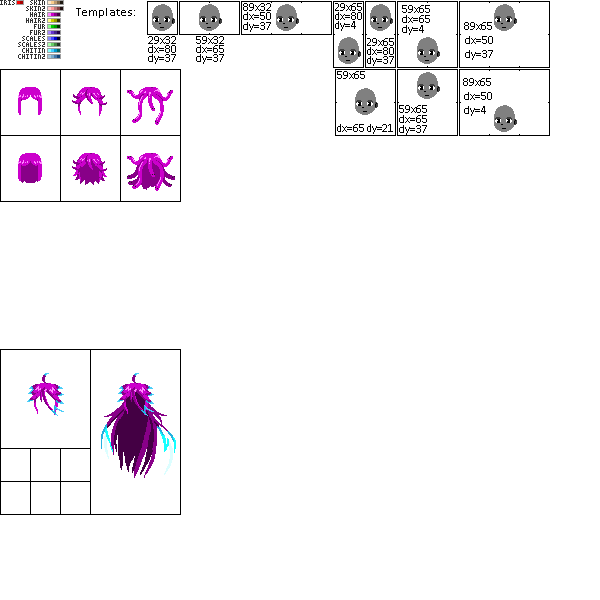
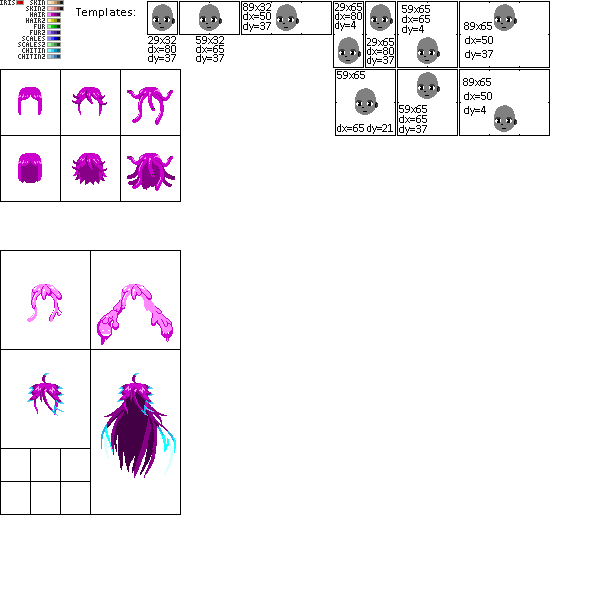
Charview update (goo)

Changed region(s): [[0.15, 0.45, 0.3, 0.57], [0.03, 0.45, 0.12, 0.54]]

diff --git a/devTools/spred/spred.js b/devTools/spred/spred.js
@@ -41,9 +41,13 @@ function colormap(src, map) {
     let darr = new Uint32Array(dst.data.buffer);
     for (let i = 0, n = darr.length; i < n; i++) {
         darr[i] = sarr[i];
+        let sa = (sarr[i] & 0xff000000) >>> 0;
+        let srgb = (sarr[i] | 0xff000000) >>> 0;
+        if (sa === 0 || srgb === 0)
+            continue;
         for (let j = 0, m = map.length; j < m; j++) {
-            if (sarr[i] === map[j][0]) {
-                darr[i] = map[j][1];
+            if (srgb === map[j][0]) {
+                darr[i] = ((map[j][1] & 0x00ffffff) | sa) >>> 0;
                 break;
             }
         }
@@ -1009,6 +1013,17 @@ var spred;
                 'torso/human',
                 'wings/scales', 'wings_bg/scales',
                 'horns_bg/demon', 'tail/demon'
+            ]);
+            addCompositeView([
+                'ears_bg/human',
+                'eyes/human',
+                'hair/slime', 'hair_bg/slime2',
+                'head/goo', 'face/goo',
+                'neck/goocore',
+                'breasts/Dgoo',
+                'arms/goo', 'arms_bg/goo',
+                'legs/gooblob',
+                'torso/goo'
             ]);
             addCompositeView([
                 'ears_bg/human',

diff --git a/devTools/spred/utils.ts b/devTools/spred/utils.ts
@@ -55,9 +55,12 @@ function colormap(src: ImageData, map: [number, number][]): ImageData {
 	let darr = new Uint32Array(dst.data.buffer);
 	for (let i = 0, n = darr.length; i < n; i++) {
 		darr[i] = sarr[i];
+		let sa = (sarr[i] & 0xff000000)>>>0;
+		let srgb = (sarr[i] | 0xff000000)>>>0;
+		if (sa === 0 || srgb === 0) continue;
 		for (let j = 0, m = map.length; j < m; j++) {
-			if (sarr[i] === map[j][0]) {
-				darr[i] = map[j][1];
+			if (srgb === map[j][0]) {
+				darr[i] = ((map[j][1] & 0x00ffffff) | sa) >>> 0;
 				break;
 			}
 		}

diff --git a/devTools/spred/spred.ts b/devTools/spred/spred.ts
@@ -1122,6 +1122,17 @@ namespace spred {
 			]);
 			addCompositeView([
 				'ears_bg/human',
+				'eyes/human',
+				'hair/slime', 'hair_bg/slime2',
+				'head/goo', 'face/goo',
+				'neck/goocore',
+				'breasts/Dgoo',
+				'arms/goo', 'arms_bg/goo',
+				'legs/gooblob',
+				'torso/goo'
+			]);
+			addCompositeView([
+				'ears_bg/human',
 				'eyes/devil',
 				'horns/devil', 'horns_bg/devil',
 				'hair/0', 'hair_bg/0',
